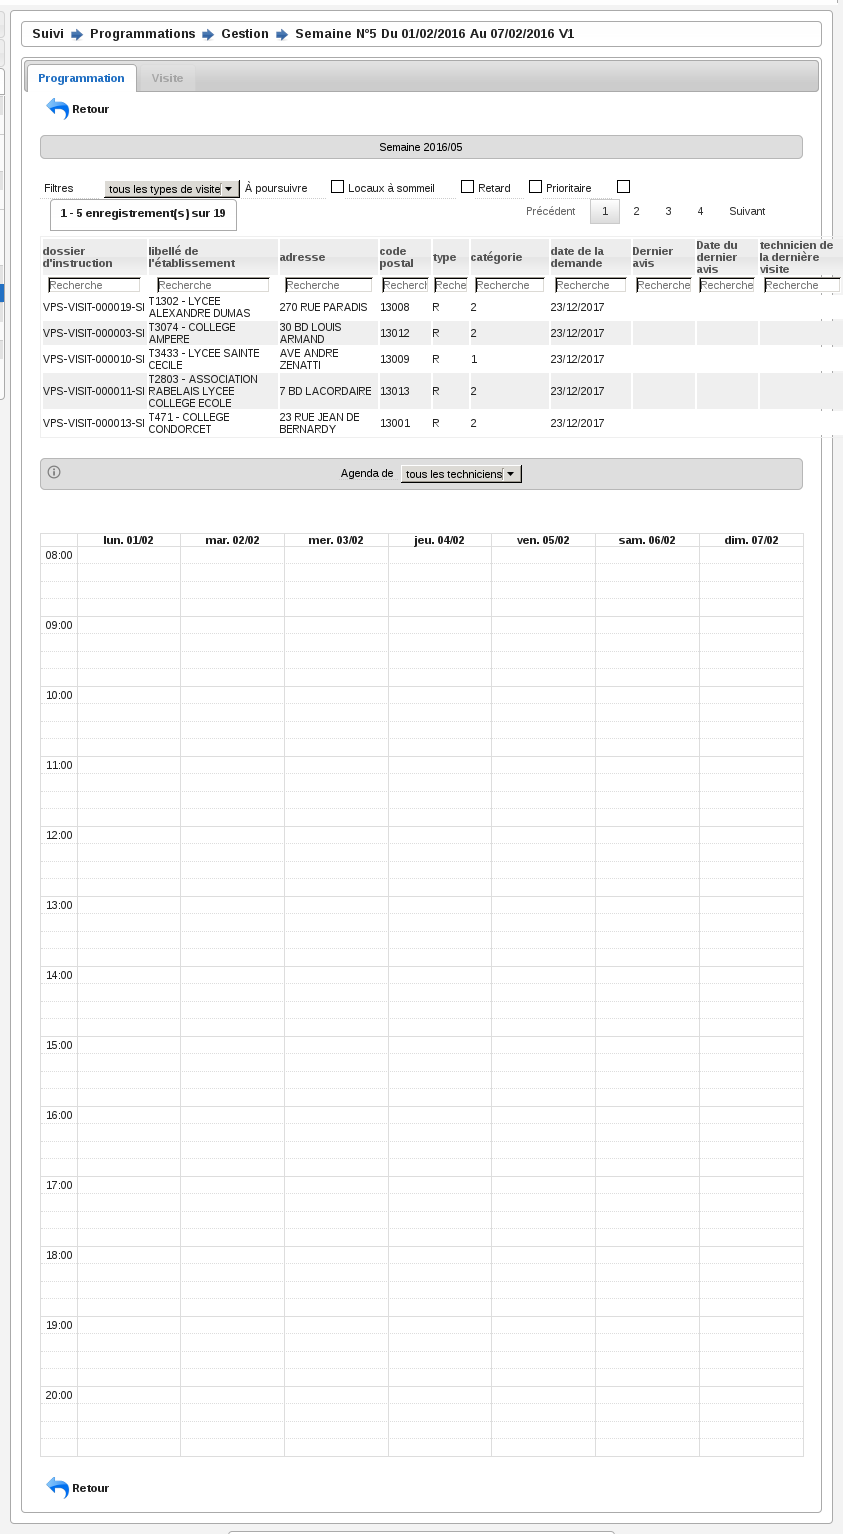
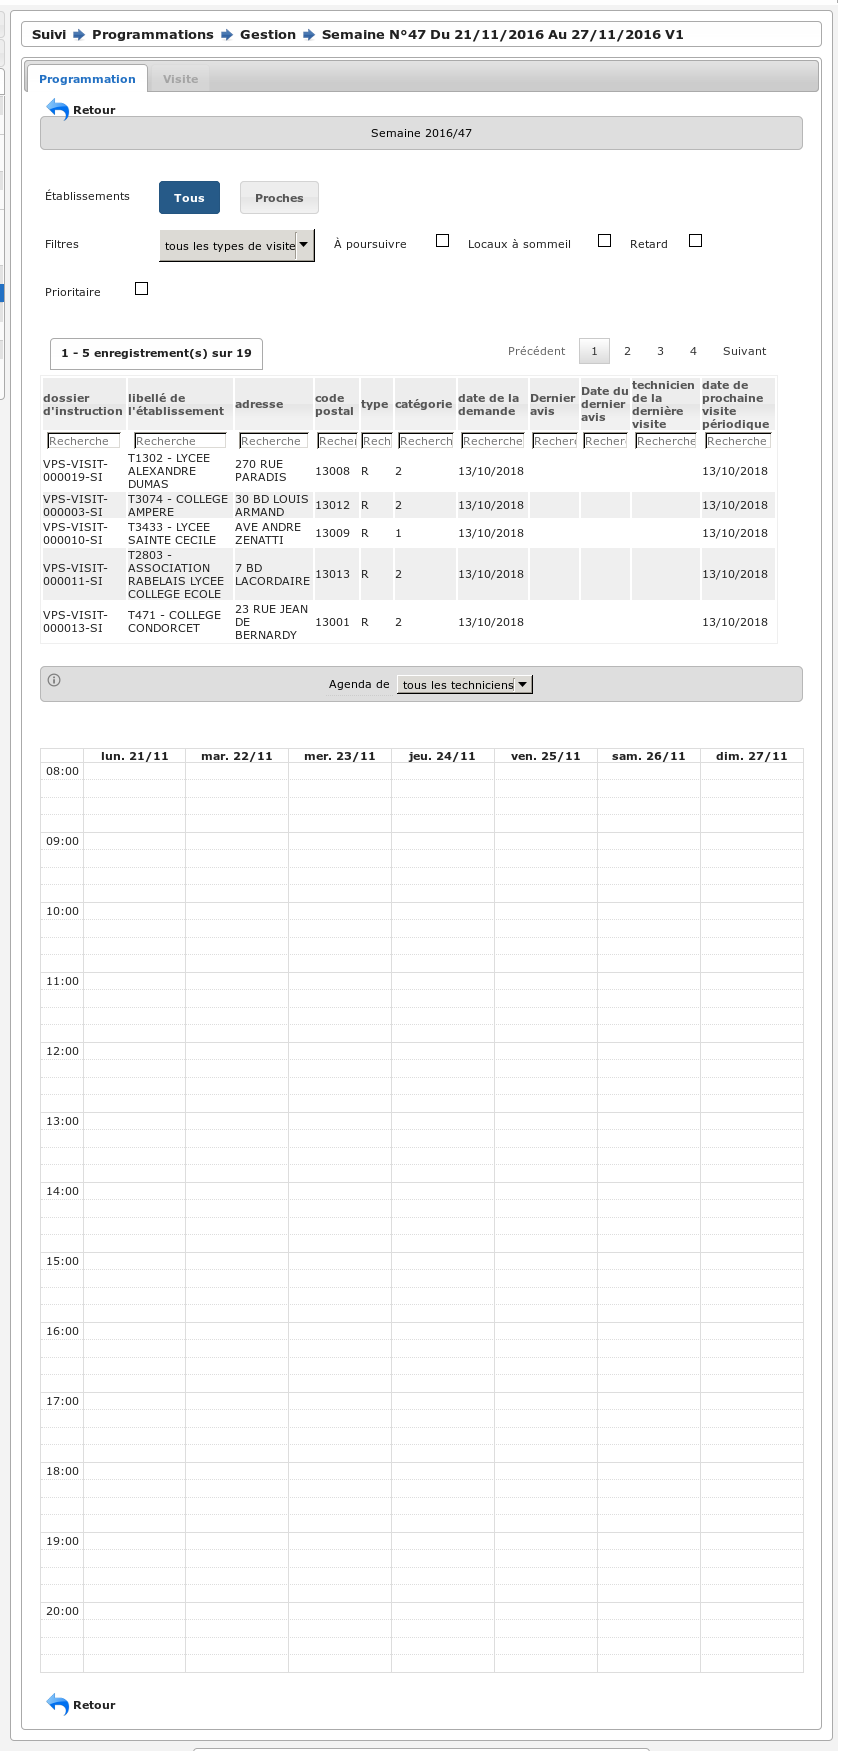
Filtre établissements proches

diff --git a/source/manuel_utilisateur/suivi/index.rst b/source/manuel_utilisateur/suivi/index.rst
@@ -451,11 +451,18 @@ Lorsqu’un Système d’Information Géographique est paramétré, il est possi
 
 Par défaut le bouton **Tous** est sélectionné : le filtre sur les établissements proches est désactivé.
 
-Pour activer le filtre :
+Pour activer le filtre il faut géolocaliser les dossiers autour d'un établissement :
 
-- cliquer sur le bouton **Proche** pour activer les champs de recherche ;
-- saisir le code d'établissement et sélectionner le rayon ;
+- cliquer sur le bouton **Proche** afin d'afficher les champs de recherche ;
+- saisir le **code** d'établissement autour duquel le périmètre s'appliquera ;
+- sélectionner le **rayon** (il s'agit, en mètres, de la distance maximum d'éloignement acceptée) ;
 - cliquer sur le bouton **Valider**.
+
+.. note::
+
+  * Si aucun établissement n'est trouvé dans le rayon, ou si ceux trouvés ne correspondent à aucun dossier de visite, alors le tableau de propositions n'affichera aucun résultat.
+
+  * Géolocaliser les dossiers de visite par établissements proches sous-entend que les dossiers n'ayant pas d'établissement rattaché ne seront pas listés.
 
 .. image:: programmations-action-programmer-view-etab_proche.png
 
